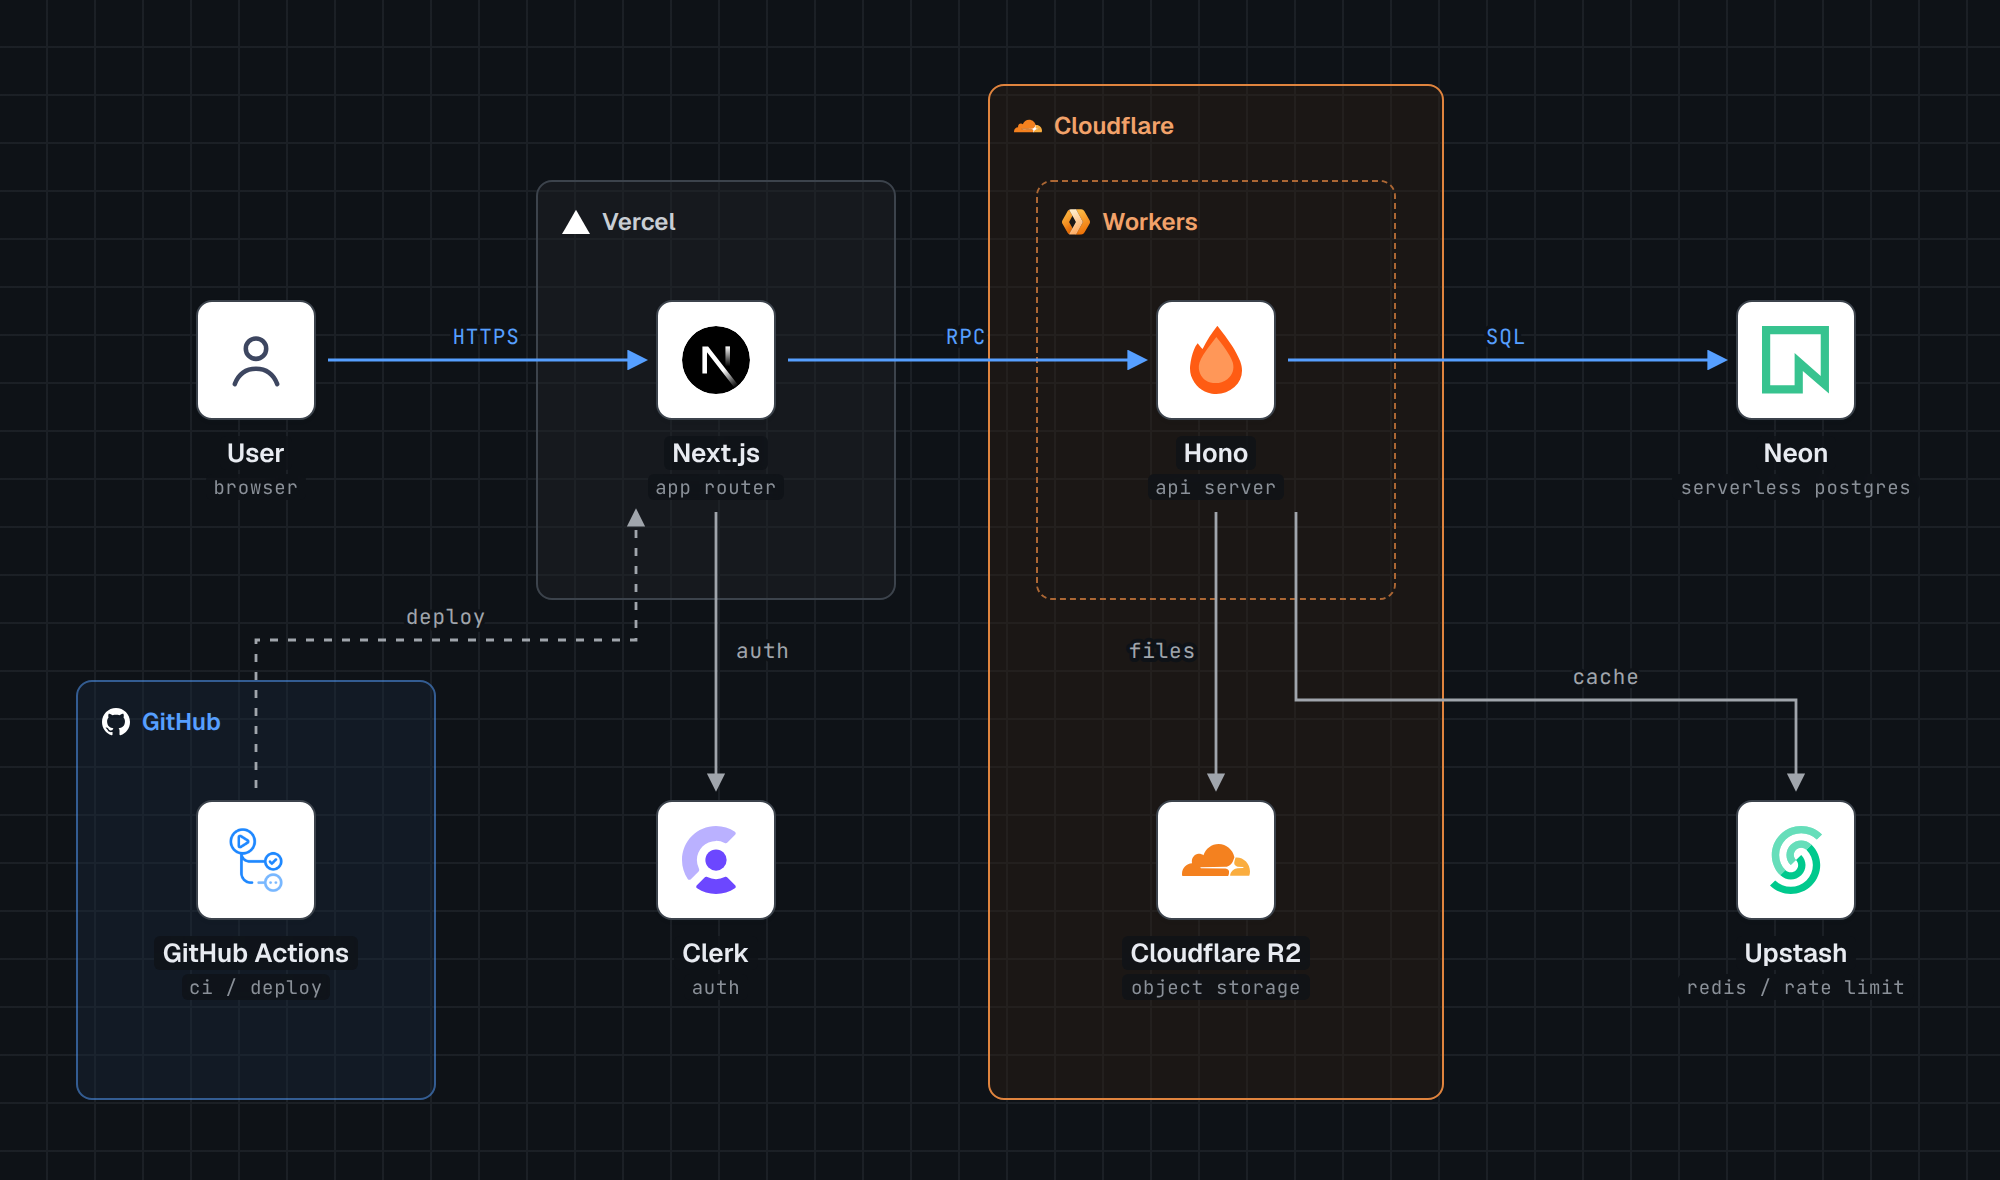
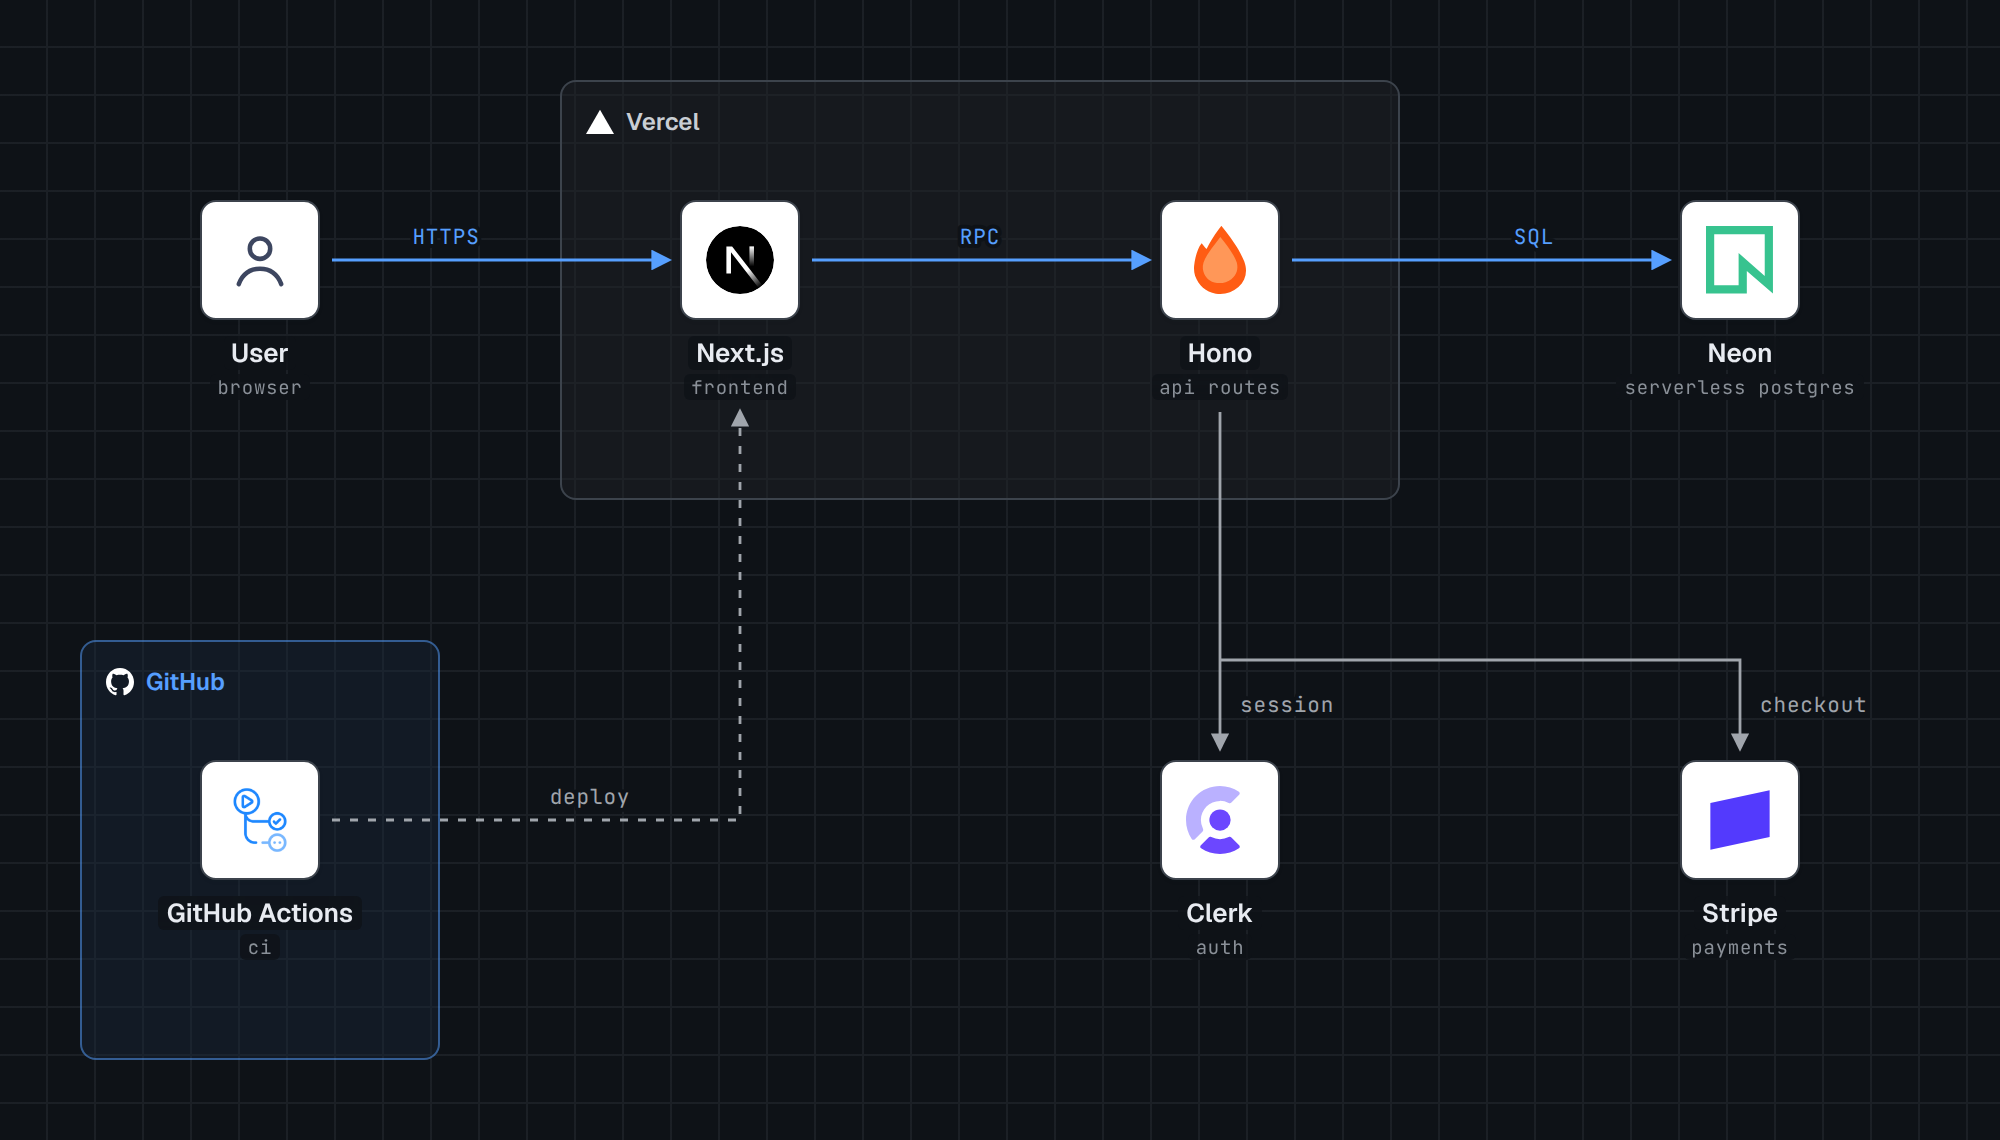
docs(readme): redraw hero with Next.js and Hono on one Vercel deploy

diff --git a/README.md b/README.md
@@ -8,10 +8,10 @@ Describe your stack in a sentence. Get an architecture diagram with official log
 
 <picture>
   <source media="(prefers-color-scheme: dark)" srcset="docs/hero-dark.png">
-  <img src="docs/hero.png" alt="Architecture diagram: a user reaches Next.js on Vercel over HTTPS; Next.js calls a Hono API in Cloudflare Workers, which queries Neon, stores files in Cloudflare R2 and caches in Upstash; Next.js uses Clerk for auth; GitHub Actions deploys" width="100%">
+  <img src="docs/hero.png" alt="Architecture diagram: a user reaches Next.js on Vercel over HTTPS; Next.js calls a Hono API in the same Vercel deployment over RPC; Hono queries Neon over SQL and calls Clerk for sessions and Stripe for checkout; GitHub Actions deploys" width="100%">
 </picture>
 
-> Diagram our stack: Next.js on Vercel calls a Hono API on Cloudflare Workers. Postgres on Neon, auth with Clerk, files in R2, rate limiting with Upstash. GitHub Actions deploys.
+> Diagram our stack: Next.js and a Hono API on Vercel. Postgres on Neon, auth with Clerk, payments with Stripe. GitHub Actions deploys.
 
 ```bash
 npx skills add caru-ini/stack-diagram
